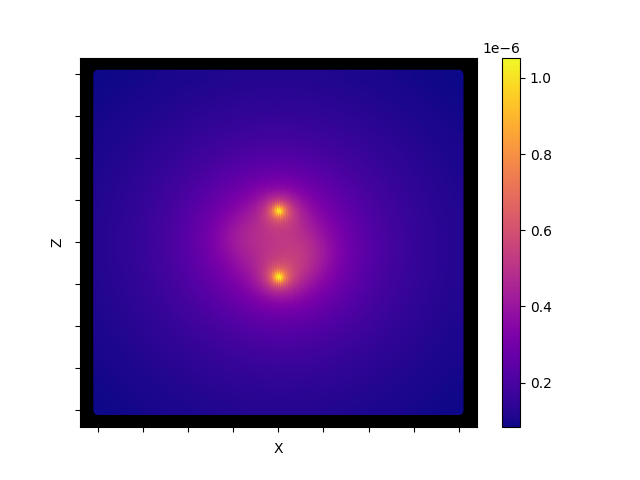
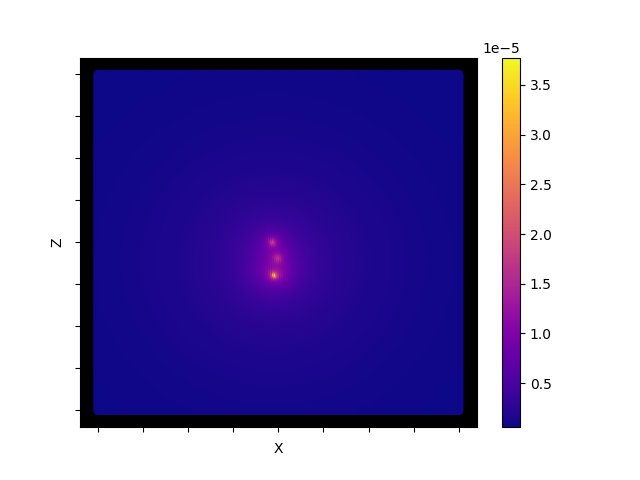
added divide by n

diff --git a/janus-gradient/src/main.cpp b/janus-gradient/src/main.cpp
@@ -28,7 +28,7 @@ std::mt19937 gen(rd());
 	const long double alphaIron		= 2.43*pow(10,7);  //
 	const int 	  nDeposits		= 10;
 	const long double kWater 		= 0.598; //W/m·K
-	const long double volumePerDeposit      = 4.1666*(10,-4);
+	const long double volumePerDeposit      = 4.1666*(10,-4)/nDeposits;
 	const long double lambda		= particleRadius;  //wavelength of laser.
 	long double stepSize;
 	long double dv;
